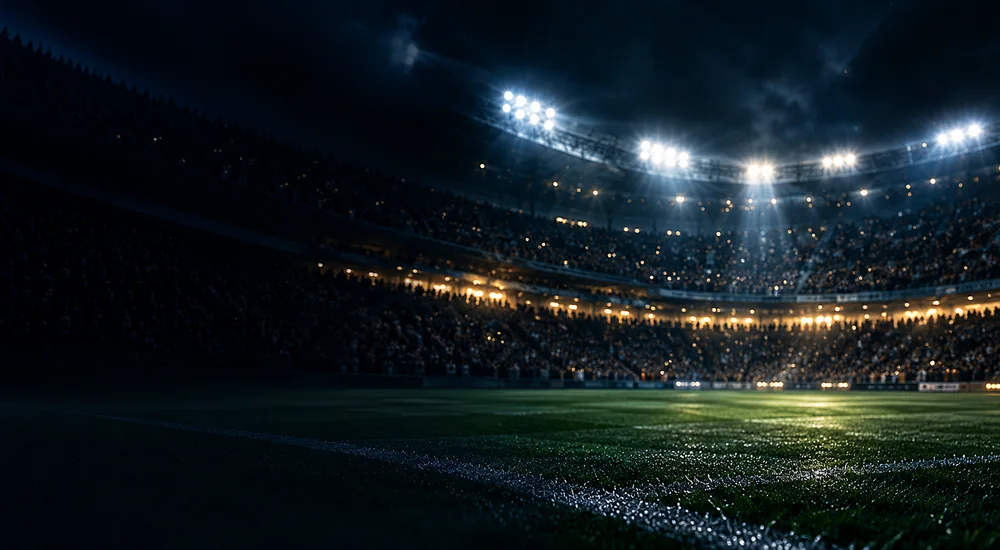
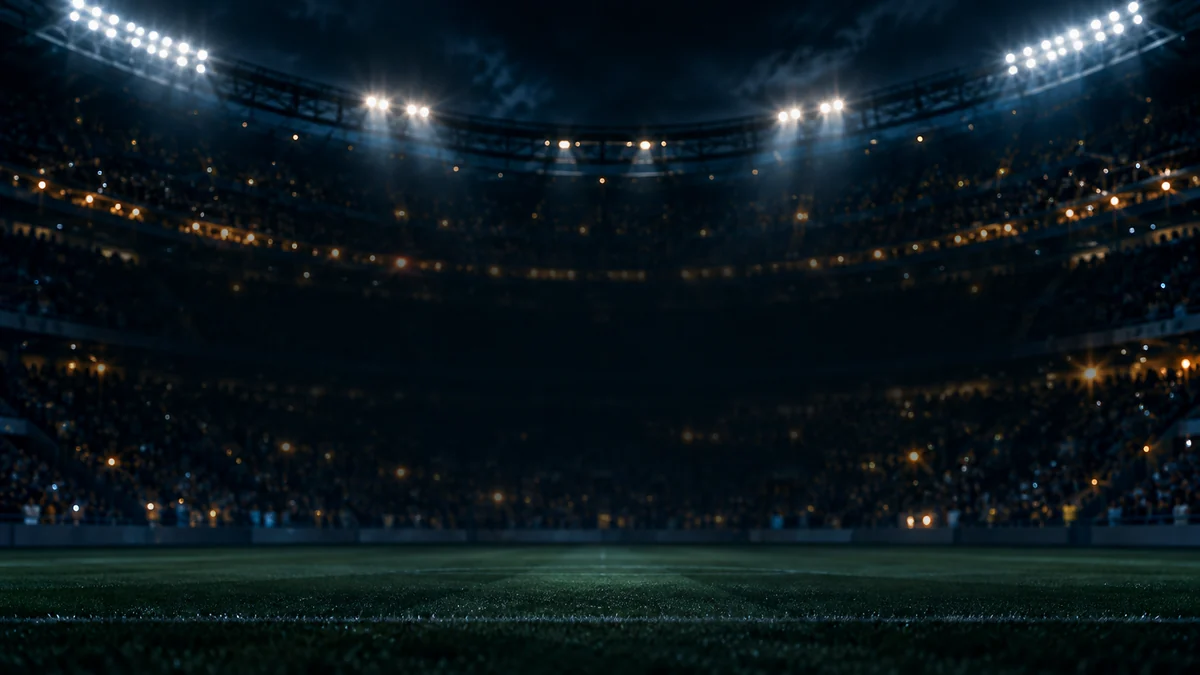
deploy: ac2d50a6caa8ad2981e2218c16204848d886cc70

diff --git a/pronos.html b/pronos.html
@@ -23,7 +23,7 @@
     <link rel="preconnect" href="https://fonts.gstatic.com" crossorigin>
     <link href="https://fonts.googleapis.com/css2?family=Caveat:wght@500;600&family=Montserrat:wght@400;500;600;700;800&display=swap" rel="stylesheet">
     <link rel="stylesheet" href="assets/css/style.css?v=20261011-pronos-premium2">
-    <link rel="stylesheet" href="assets/css/pronos-premium.css?v=20261011-pronos-premium5">
+    <link rel="stylesheet" href="assets/css/pronos-premium.css?v=20261011-pronos-premium6">
     <script defer src="https://cdn.jsdelivr.net/npm/marked/marked.min.js"></script>
 <link rel="apple-touch-icon" sizes="180x180" href="assets/images/apple-touch-icon.png?v=20261011-approved-mx1"></head>
 <body class="mx-pronos-page">
@@ -72,13 +72,13 @@
                 <h2 id="categories-title" class="visually-hidden">Catégories de pronostics</h2>
                 <div class="category-tabs pronostic-category-tabs" role="tablist" aria-label="Catégories de pronostics">
                     <button id="tab-simple" class="tab-btn active" data-cat="simple" role="tab" type="button" aria-selected="true" aria-controls="matches-container" tabindex="0">
-                        <span class="category-icon" aria-hidden="true"><img src="assets/images/pronostics-premium/icon-simple.svg?v=20261011-p1" alt=""></span><span class="category-label">Simple</span><span class="tab-count" id="count-simple">0</span>
+                        <span class="category-icon" aria-hidden="true"><img src="assets/images/pronostics-premium/icon-simple.webp?v=20261011-gen2" alt=""></span><span class="category-label">Simple</span><span class="tab-count" id="count-simple">0</span>
                     </button>
                     <button id="tab-pro" class="tab-btn" data-cat="pro" role="tab" type="button" aria-selected="false" aria-controls="matches-container" tabindex="-1">
-                        <span class="category-icon" aria-hidden="true"><img src="assets/images/pronostics-premium/icon-pro.svg?v=20261011-p1" alt=""></span><span class="category-label">Pro</span><span class="tab-count" id="count-pro">0</span>
+                        <span class="category-icon" aria-hidden="true"><img src="assets/images/pronostics-premium/icon-pro.webp?v=20261011-gen2" alt=""></span><span class="category-label">Pro</span><span class="tab-count" id="count-pro">0</span>
                     </button>
                     <button id="tab-vip" class="tab-btn" data-cat="vip" role="tab" type="button" aria-selected="false" aria-controls="matches-container" tabindex="-1">
-                        <span class="category-icon" aria-hidden="true"><img src="assets/images/pronostics-premium/icon-vip.svg?v=20261011-p1" alt=""></span><span class="category-label">VIP</span><span class="tab-count" id="count-vip">0</span>
+                        <span class="category-icon" aria-hidden="true"><img src="assets/images/pronostics-premium/icon-vip.webp?v=20261011-gen2" alt=""></span><span class="category-label">VIP</span><span class="tab-count" id="count-vip">0</span>
                     </button>
                 </div>
                 <div class="category-copy">
@@ -166,7 +166,7 @@
         });
       }
     </script>
-    <script type="module" src="assets/js/main.js?v=20261011-pronos-premium5"></script>
+    <script type="module" src="assets/js/main.js?v=20261011-pronos-premium6"></script>
     <script defer src="assets/js/pwa.js?v=20260806-pronos-fix"></script>
     <script defer src="assets/js/assistant.js"></script>
     <script defer src="assets/js/menu.js"></script>

diff --git a/assets/css/pronos-premium.css b/assets/css/pronos-premium.css
@@ -71,7 +71,7 @@
   background-image:
     linear-gradient(90deg,rgba(1,8,15,.96) 0%,rgba(1,10,20,.82) 38%,rgba(1,12,24,.33) 69%,rgba(0,8,18,.19) 100%),
     linear-gradient(180deg,rgba(0,3,9,.08),transparent 62%,rgba(0,7,13,.56)),
-    url('../images/pronostics-premium/hero-stadium.webp');
+    url('../images/pronostics-premium/hero-stadium.webp?v=20261011-gen2');
   background-size:cover;background-position:center,center,center 52%;
   filter:saturate(1.05) contrast(1.04);
 }
@@ -151,7 +151,7 @@
     linear-gradient(90deg,#2e789f,#17394d) border-box;
   color:#fff;font-size:12px;outline:0;
   background-image:
-    url('../images/pronostics-premium/icon-search.svg'),
+    url('../images/pronostics-premium/icon-search.webp?v=20261011-gen2'),
     linear-gradient(#071a28,#071a28);
   background-repeat:no-repeat,no-repeat;background-position:15px center,0 0;background-size:18px,100% 100%;
 }
@@ -195,7 +195,7 @@
   content:"";position:absolute;inset:0;z-index:-2;
   background-image:
     linear-gradient(180deg,rgba(3,18,29,.89),rgba(4,18,28,.94)),
-    url('../images/home-premium/hero-stadium.webp');
+    url('../images/pronostics-premium/card-stadium.webp?v=20261011-gen2');
   background-size:cover;background-position:center 46%;opacity:.96;
 }
 .mx-pronos-page .match-card::after{
@@ -373,6 +373,26 @@
 /* Pronostics assets polish — generated for the reference capture */
 .mx-pronos-page .mx-pronos-hero-atmosphere{background-position:center,center,center 45%;filter:saturate(1.02) contrast(1.05)}
 .mx-pronos-page .mx-pronos-quote{flex-basis:170px;margin-top:22px;font-size:clamp(21px,2.2vw,31px)}
-.mx-pronos-page .match-card::before{background-image:linear-gradient(180deg,rgba(3,18,29,.82),rgba(4,18,28,.91)),url('../images/pronostics-premium/card-stadium.webp');background-position:center 51%;opacity:1}
+.mx-pronos-page .match-card::before{background-image:linear-gradient(180deg,rgba(3,18,29,.82),rgba(4,18,28,.91)),url('../images/pronostics-premium/card-stadium.webp?v=20261011-gen2');background-position:center 51%;opacity:1}
 .mx-pronos-page .search-input{background-size:18px 18px,100% 100%}
 @media(max-width:590px){.mx-pronos-page .category-icon{width:25px;height:25px}.mx-pronos-page .category-icon img{width:22px;height:22px}}
+
+
+/* ===== Assets générés depuis la maquette Pronostics — 2026-10-11 ===== */
+.mx-pronos-page .category-icon img{
+  width:29px;height:29px;
+  object-fit:contain;
+  filter:drop-shadow(0 2px 5px rgba(0,0,0,.34));
+}
+.mx-pronos-page .tab-btn[data-cat="vip"] .category-icon img{width:31px;height:31px}
+.mx-pronos-page .tab-btn.active .category-icon img{
+  filter:brightness(.10) saturate(.15) contrast(1.35);
+}
+.mx-pronos-page .search-input{
+  padding-left:46px;
+  background-position:14px center,0 0;
+  background-size:21px 21px,100% 100%;
+}
+.mx-pronos-page .share-glyph{display:grid;place-items:center;width:20px;height:20px}
+.mx-pronos-page .share-glyph img{width:18px;height:18px;object-fit:contain}
+.mx-pronos-page .league-chevron img{width:15px;height:15px;object-fit:contain}

diff --git a/service-worker.js b/service-worker.js
@@ -1,6 +1,6 @@
 // service-worker.js - Version corrigée et nettoyée
 
-const VERSION = 'v31-bonus-premium-20261011';
+const VERSION = 'v29-pronostics-generated-assets-20261011';
 const STATIC_CACHE = `mr-xpronos-static-${VERSION}`;
 const DYNAMIC_CACHE = `mr-xpronos-dynamic-${VERSION}`;
 const IMAGE_CACHE = `mr-xpronos-images-${VERSION}`;
@@ -53,12 +53,14 @@ const STATIC_ASSETS = [
     './assets/images/pronostics-premium/hero-stadium.webp',
     './assets/images/bonus-premium/bonus-gift.webp',
     './assets/images/pronostics-premium/card-stadium.webp',
-    './assets/images/pronostics-premium/icon-simple.svg',
-    './assets/images/pronostics-premium/icon-pro.svg',
-    './assets/images/pronostics-premium/icon-vip.svg',
-    './assets/images/pronostics-premium/icon-share.svg',
-    './assets/images/pronostics-premium/icon-search.svg',
-    './assets/images/pronostics-premium/icon-chevron.svg',
+    './assets/images/pronostics-premium/icon-simple.webp',
+    './assets/images/pronostics-premium/icon-pro.webp',
+    './assets/images/pronostics-premium/icon-vip.webp',
+    './assets/images/pronostics-premium/icon-share.webp',
+    './assets/images/pronostics-premium/icon-search.webp',
+    './assets/images/pronostics-premium/icon-calendar.webp',
+    './assets/images/pronostics-premium/icon-chevron.webp',
+    './assets/images/pronostics-premium/icon-ball.webp',
     './assets/images/mrxpronos-horizontal.webp',
     './assets/images/mrxpronos-logo-maquette.png',
     './assets/images/mrxpronos-horizontal.webp',

diff --git a/assets/js/main.js b/assets/js/main.js
@@ -1271,7 +1271,7 @@ function renderMatches(matches) {
         </div>
         <div class="league-header__meta">
           <span>${leagueCount} pronostic${leagueCount > 1 ? "s" : ""}</span>
-          <span class="league-chevron" aria-hidden="true"><img src="assets/images/pronostics-premium/icon-chevron.svg?v=20261011-p1" alt=""></span>
+          <span class="league-chevron" aria-hidden="true"><img src="assets/images/pronostics-premium/icon-chevron.webp?v=20261011-gen2" alt=""></span>
         </div>
       </div>`;
 
@@ -1395,7 +1395,7 @@ function renderMatches(matches) {
             </div>
 
             ${premiumBadge}
-            <button class="btn btn-secondary btn-share" data-match="${matchDataEncoded}"><span class="share-glyph" aria-hidden="true"><img src="assets/images/pronostics-premium/icon-share.svg?v=20261011-p1" alt=""></span> Partager ce prono</button>
+            <button class="btn btn-secondary btn-share" data-match="${matchDataEncoded}"><span class="share-glyph" aria-hidden="true"><img src="assets/images/pronostics-premium/icon-share.webp?v=20261011-gen2" alt=""></span> Partager ce prono</button>
           </div>
         </div>
       `;    });
